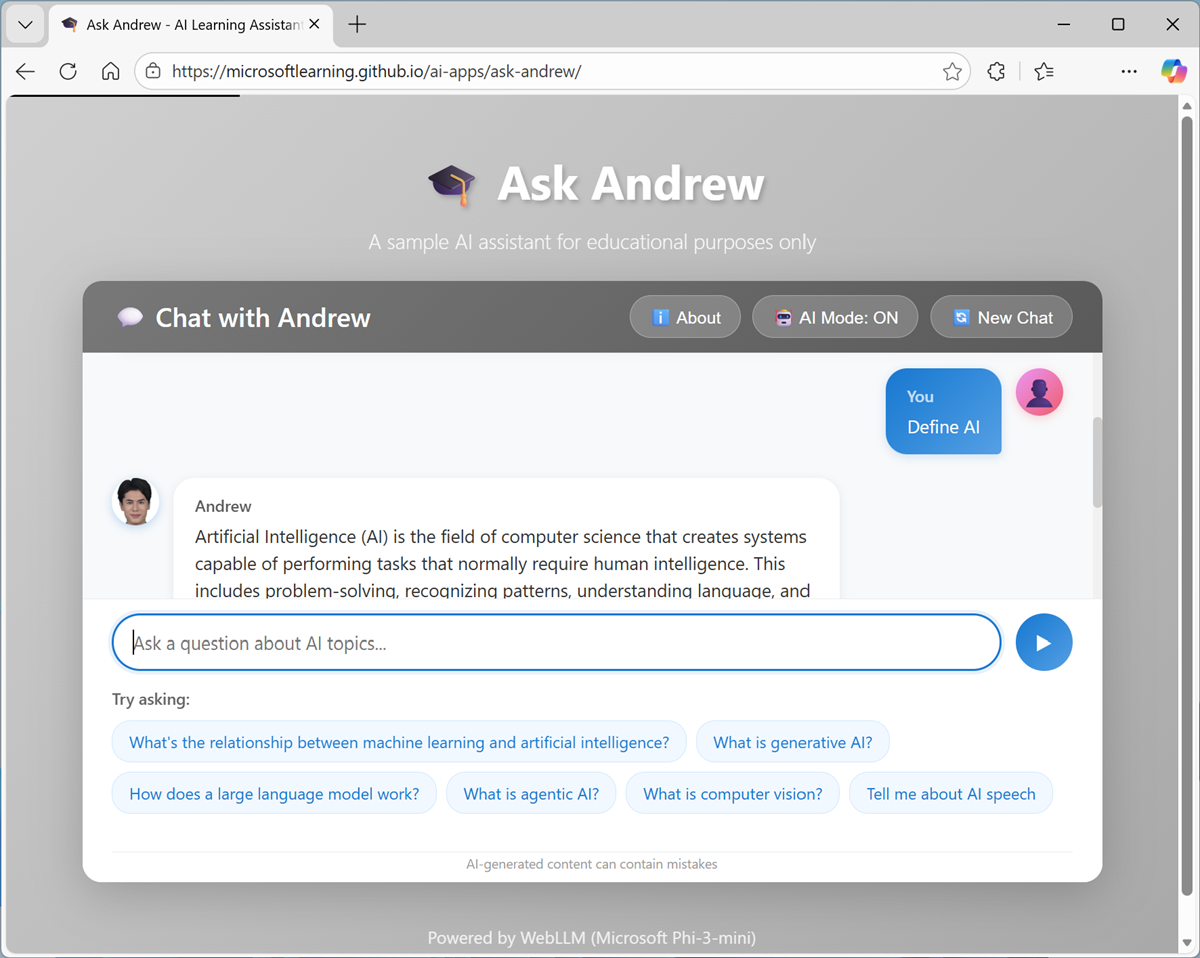
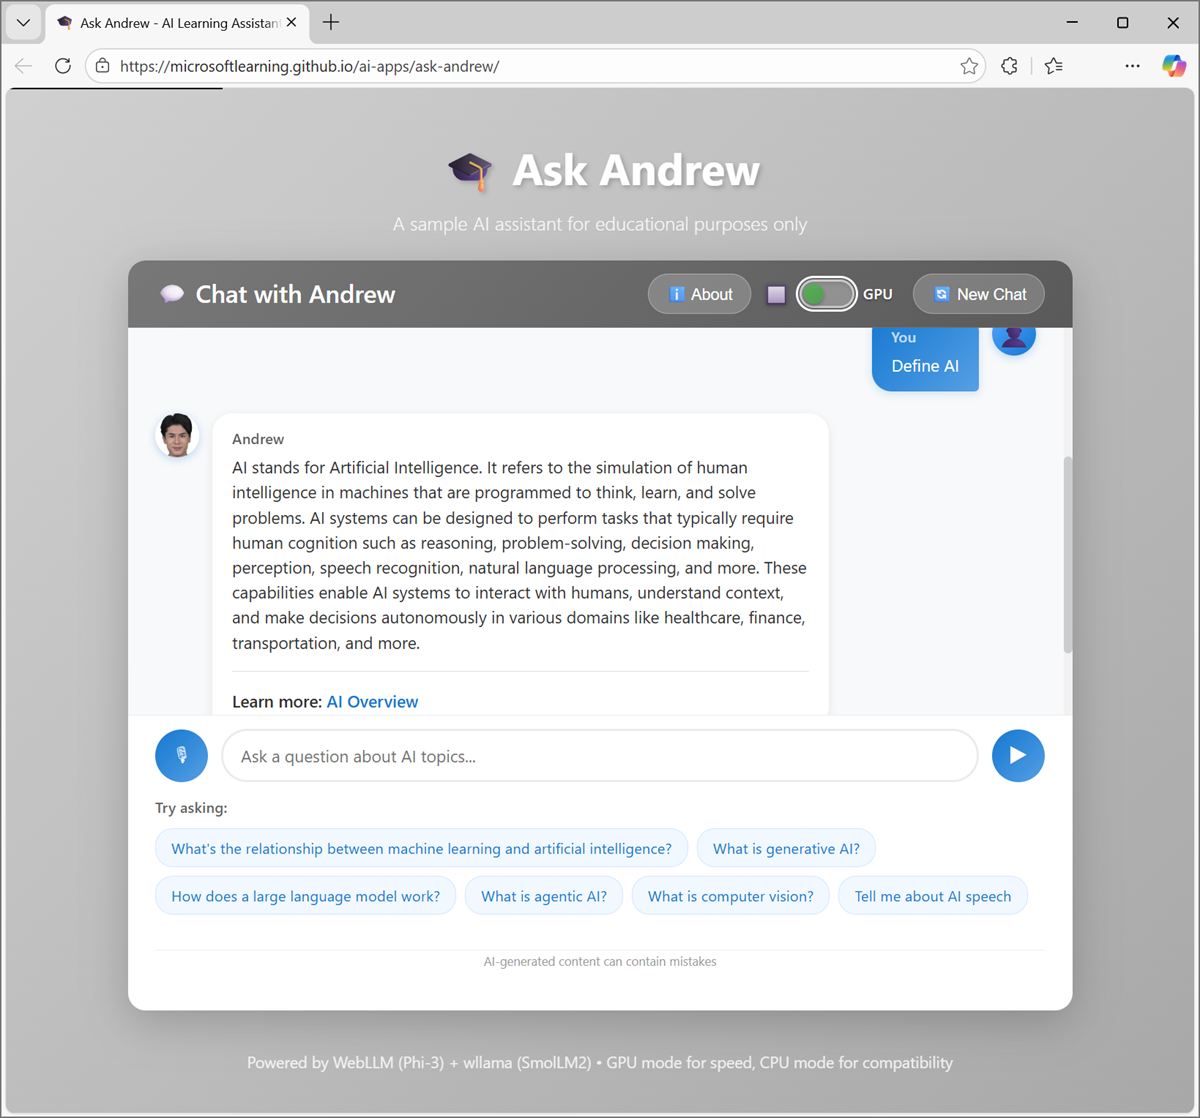
Updated AI Agent lab

Changed region(s): [[0.0, 0.0, 1.0, 1.0]]

diff --git a/Instructions/exercises/00-explore-agent.md b/Instructions/exercises/00-explore-agent.md
@@ -14,16 +14,16 @@ This exercise should take approximately **15** minutes to complete.
 
 **Ask Andrew** is a simple example of an AI agent that provides a chat interface for learning about AI concepts.
 
-> **Note**: Ask Andrew is provided solely as a simple example of a chat-based agent for this exercise. It is not a component of the Microsoft Learn or AI Skills Navigator platform, nor is it a supported Microsoft product or service. The agent uses the **Microsoft Phi 3 Mini** small language model to interpret and respond to prompts. The model runs in your browser, on your local computer; so performance may vary depending on the available memory in your computer and your network bandwidth to download the model. If WebLLM models are not supported in your browser, or you prefer not to use the model, a *Simple mode* with reduced functionality can be used to search an in-browser index for answers without using generative AI. After opening the app, use the **About** button in the chat area to find out more.
+> **Note**: Ask Andrew is provided solely as a simple example of a chat-based agent for this exercise. It is not a component of the Microsoft Learn or AI Skills Navigator platform, nor is it a supported Microsoft product or service. The agent uses a small language model to interpret and respond to prompts. The model runs in your browser, on your local computer; so performance may vary depending on the available memory in your computer and your network bandwidth to download the model. If GPU-based WebLLM models are not supported in your browser, a fallback CPU-based model is used; which may be considerably slower and generate lower quality responses. After opening the app, use the **About** button in the chat area to find out more.
 
 1. In a web browser, open the **[Ask Andrew](https://aka.ms/ask-andrew){:target="_blank"}** at `https://aka.ms/ask-andrew`.
 1. Wait for the model to download and initialize.
 
    ![Screenshot of the Ask Andrew loading page.](./media/ask-andrew-01.png)
 
-    The first time you open the chat playground, it may take a few minutes for the model to download. Subsequent downloads will be faster.
+    The first time you download a model, it will take several minutes. Subsequent downloads will be faster.
 
-    > **Tip**: If the model fails to load, the app will fallback to *Simple mode*. This may happen if your computer does not have a GPU, or if WebGPU support is disabled in your browser. When using an ARM64 based computer, you may need to enable WebGPU support in your browser's `edge://flags` or `chrome://flags` page and restart the browser. If you choose to do so, disable it again when you have completed the exercise.
+    > **Tip**: If the GPU-based model fails to load, the app will fallback to *CPU mode*. This may happen if your computer does not have a GPU, or if WebGPU support is disabled in your browser. When using an ARM64 based computer, you may need to enable WebGPU support in your browser's `edge://flags` or `chrome://flags` page and restart the browser. If you choose to do so, disable it again when you have completed the exercise.
 
 ## Chat with the model
 
@@ -33,8 +33,10 @@ This exercise should take approximately **15** minutes to complete.
 
 1. Continue to chat with the agent, bearing in mind the following guidelines:
     - You can use the built-in sample prompts or enter your own in the chat box.
-    - Responses may be slow - particularly in *AI mode*, where the generative AI model is run locally in your browser. You can stop a response generation at any point.
-    - When using *AI mode*, you can use follow-up questions - the model will "remember" the conversation context. In *Simple mode*, each prompt creates a new interaction.
+    - You can use the **Voice input** button to task to the agent instead of typing (if supported by your browser).
+    - You can use the links after each response to learn more.
+    - Responses may be slow - particularly in *CPU mode*. You can stop a response generation at any point.
+    - When using *GPU mode*, you can use follow-up questions - the model will "remember" the conversation context. In *CPU mode*, each prompt creates a new interaction.
     - Responses from AI may not always be accurate. In this application, the responses are *grounded* in a knowledge base; but generative AI can still make mistakes.
 
 ## Understand the architecture
@@ -48,10 +50,7 @@ At a high-level, the process can be broken down into six steps.
 1. You submit a question in the form of a *prompt*.
 1. The app extracts keywords from your prompt and uses them to query a knowledge base. The knowledge base for this app is stored in a file named [index.json](https://microsoftlearning.github.io/ai-apps/ask-andrew/index.json){:target="_blank"}, loaded locally in your browser. More scalable, production-ready agents tend to have more comprehensive knowledge stores!
 1. The query returns text from the knowledge store that provides contextual information that will help answer the question you asked.
-
-    > *When operating in Simple mode, we skip to step 6 and the contextual infomation text is returned as the response. When using AI mode, the process continues to use a language model to generate a more comprehensive response.*
-
-1. When using the full *AI* mode, the agent submits a message to the language model (in this case, Microsoft Phi 3 Mini). The message consists of:
+1. The agent submits a message to the language model. The message consists of:
     - A *system prompt* containing instructions for how the model should format its response.
     - The contextual information returned by the query.
     - Your original question. 

diff --git a/readme.md b/readme.md
@@ -1,9 +1,6 @@
-# AI Concepts
-<!-- Change the title above as appropriate -->
-
-<!-- Review the notes in the index.md file to set up the repo for GitHub Pages -->
+# Introduction to AI concepts for developers and technology professionals
 
 This repo contains exercises and supporting files for Microsoft skilling content.
 
-The exercises may be used in both self-paced skilling experiences on [Microsoft Learn](https://learn.microsoft.com) and in Microsoft authorized instructor-led training.
-<!-- Update the paragraph above with a link to a specific Learning Path or course as appropriate -->
+The exercises may be used in both self-paced skilling experiences on [Microsoft Learn](https://aka.ms/mslearn-ai-concepts-intro) and in Microsoft authorized instructor-led training.
+
